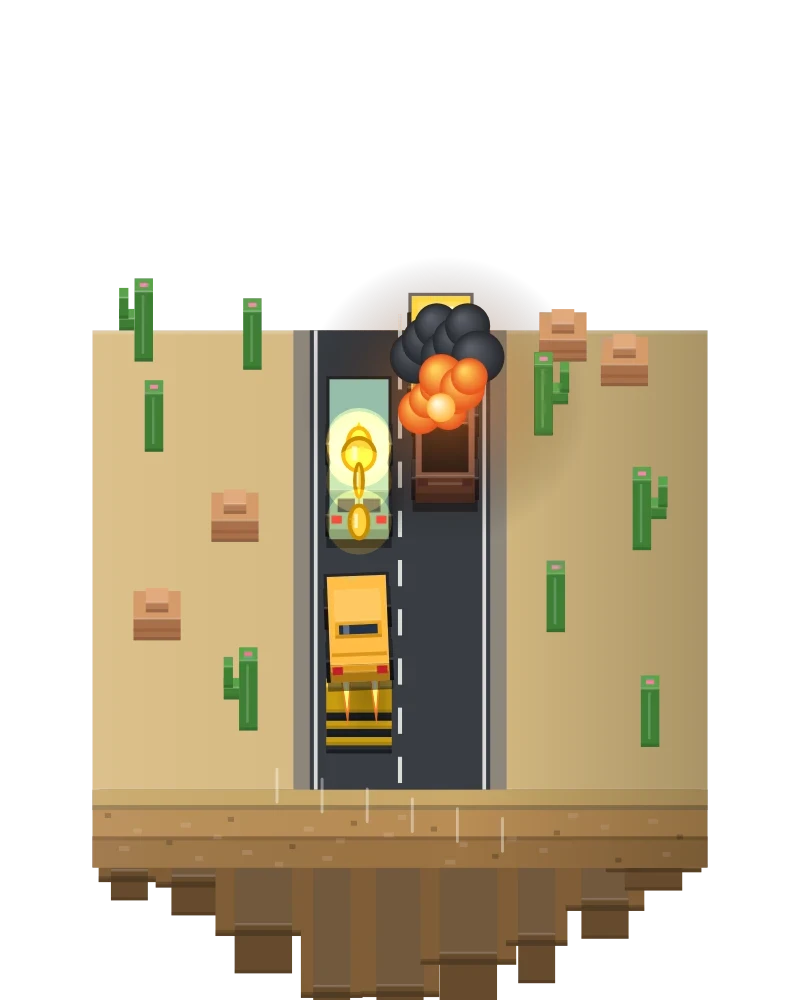
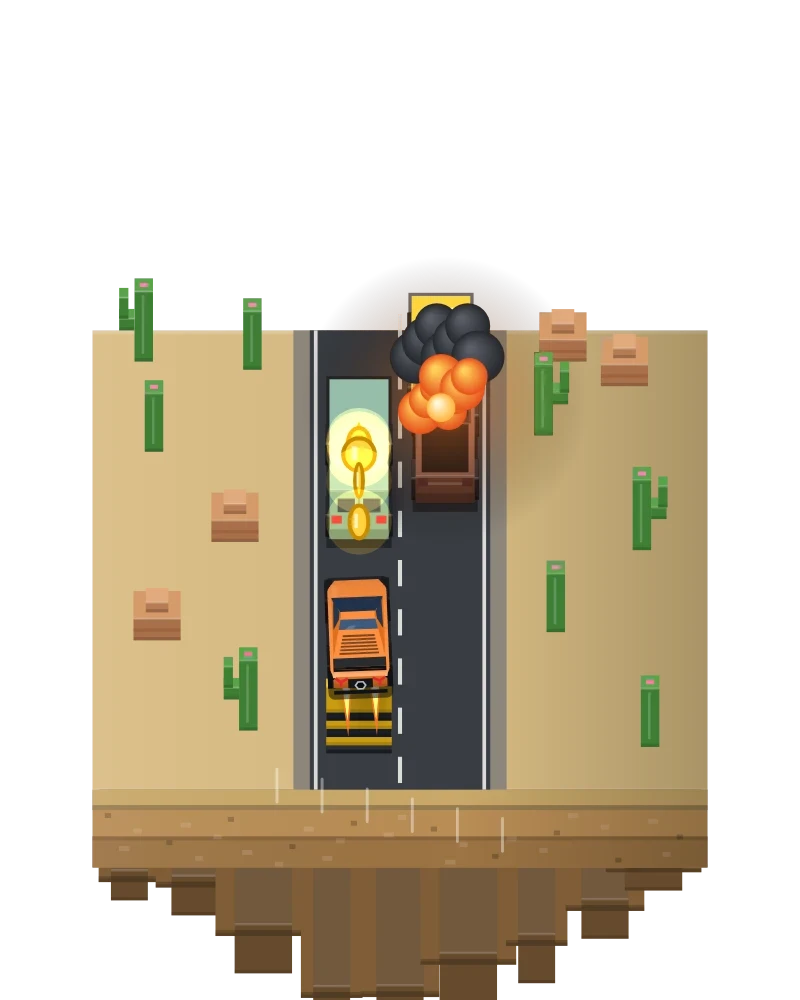
Menu art: redraw the four islands with the current cars
The islands now show the redone roofs and the luxury cars: an Elfer and a
Toro on the Road Rush road, a Rosso F8 and a Gelande at the crossroads, a
Toro V12 boosting off the Boom Run ramp, and an Elfer Classic on a turntable
in the Hall of Art.

Claude-Session: https://claude.ai/code/session_01Hf7xxKrxZ5rt7qyTmTKRRk

Changed region(s): [[0.4062, 0.558, 0.5, 0.713]]

diff --git a/shared/art/dioramas.js b/shared/art/dioramas.js
@@ -70,14 +70,13 @@ window.makeDioramas = function (LAYER) {
       for (let x = x0 + 4; x < x1 - 10; x += 26) c.fillRect(x, P(26.5, 0), 13, 3 * GY);
       c.fillStyle = 'rgba(247,247,242,0.9)'; c.fillRect(x0, P(63, 0), x1 - x0, 1.8 * GY); c.fillRect(x0, P(-13, 0), x1 - x0, 1.8 * GY);
     }
-    const red = car('sedan', '#e63946', 'E'), bus = car('bus', '#ffb703', 'W');
+    const red = car('elfer', '#d1202e', 'W'), bus = car('bus', '#ffb703', 'E'), toro = car('toroV12', '#9bd427', 'W');
     const items = [
       { x: -70, y: 92, draw: () => Draw.tree(c, tree(TOWN_TREE, 15, 3)), shadow: () => Draw.shadow(c, -70, 92, 42, 37, 0.8) },
       { x: 10, y: 88, draw: () => Draw.tree(c, tree(TOWN_TREE, 14, 2)), shadow: () => Draw.shadow(c, 10, 88, 40, 35, 0.8) },
       { x: 95, y: 92, draw: () => Draw.tree(c, tree(TOWN_TREE, 16, 3)), shadow: () => Draw.shadow(c, 95, 92, 44, 38, 0.8) },
       { x: -115, y: 80, draw: () => Draw.bush(c, { pal: { top: '#62b44e', front: '#4b953d', top2: '#77c75f', front2: '#5aa648' }, flower: '#ffe066' }) },
-      { x: -55, y: 46, draw: () => Cars.draw(c, red, 0.3), shadow: () => { c.save(); c.translate(-55, P(46, 0)); Cars.shadow(c, red, 0.9); c.restore(); } },
-      { x: 70, y: 5, draw: () => Cars.draw(c, bus, 0.3), shadow: () => { c.save(); c.translate(70, P(5, 0)); Cars.shadow(c, bus, 0.9); c.restore(); } },
+      ...[[red, -72, 5], [bus, 58, 46], [toro, 52, 5]].map(([v, x, y]) => ({ x, y, draw: () => Cars.draw(c, v, 0.3), shadow: () => { c.save(); c.translate(x, P(y, 0)); Cars.shadow(c, v, 0.9); c.restore(); } })),
       { x: -105, y: -35, draw: () => Draw.lamp(c, { dir: 1 }) },
       { x: 70, y: -38, draw: () => Draw.hydrant(c) },
       ...[-30, -8, 14].map((x, i) => ({ x, y: -36, draw: () => Draw.coin(c, { phase: i * 1.2 }, 0.4) })),
@@ -115,7 +114,7 @@ window.makeDioramas = function (LAYER) {
         if (on) { c.globalCompositeOperation = 'lighter'; glow(c, 0, y, 20, col.replace('#', '') && (s === 'green' ? 'rgba(60,240,120,0.55)' : 'rgba(255,60,60,0.55)')); c.globalCompositeOperation = 'source-over'; }
       });
     };
-    const taxi = car('taxi', null, 'S'), blue = car('sedan', '#3a86ff', 'E'), van = car('van', '#e07a5f', 'N'), amb = car('ambulance', null, 'W');
+    const taxi = car('taxi', null, 'S'), blue = car('rossoF8', '#d40000', 'E'), van = car('gelande', '#b5a37a', 'N'), amb = car('ambulance', null, 'W');
     const cs = (v, x, y) => ({ x, y, draw: () => Cars.draw(c, v, 0.2), shadow: () => { c.save(); c.translate(x, P(y, 0)); Cars.shadow(c, v, 0.9); c.restore(); } });
     const items = [
       { x: -95, y: 85, draw: () => Draw.tree(c, tree(TOWN_TREE, 15, 3)), shadow: () => Draw.shadow(c, -95, 85, 42, 37, 0.8) },
@@ -144,7 +143,7 @@ window.makeDioramas = function (LAYER) {
     // ramp
     for (let i = 0; i < 6; i++) B(c, -36, -4, -118 + i * 5, -113 + i * 5, 0, (i + 1) * 2.2, i % 2 ? '#ffd23f' : '#2b2f36', i % 2 ? '#c99a10' : '#1b1e23');
     }
-    const me = car('sports', '#ffb020', 'N'), van = car('van', '#81b29a', 'N'), taxi = car('taxi', null, 'N'), wreck = car('pickup', '#e76f51', 'N');
+    const me = car('toroV12', '#ff7a1a', 'N'), van = car('van', '#81b29a', 'N'), taxi = car('taxi', null, 'N'), wreck = car('pickup', '#e76f51', 'N');
     Cars.wreck(wreck);
     const cs = (v, x, y) => ({ x, y, draw: () => Cars.draw(c, v, 0.2), shadow: () => { c.save(); c.translate(x, P(y, 0)); Cars.shadow(c, v, 0.9); c.restore(); } });
     const fire = () => { // the wreck going up in flames
@@ -222,7 +221,15 @@ window.makeDioramas = function (LAYER) {
       for (const x of [-60, 60]) { B(c, x - 1.5, x + 1.5, -1.5, 1.5, 0, 26, '#ffd84a', '#c9a020'); c.fillStyle = '#ffd84a'; c.beginPath(); c.arc(x, P(0, 28), 3.2, 0, 6.2832); c.fill(); }
       c.strokeStyle = '#b3122e'; c.lineWidth = 2.6; c.beginPath(); c.moveTo(-60, P(0, 24)); c.quadraticCurveTo(0, P(0, 6), 60, P(0, 24)); c.stroke();
     };
+    const classic = car('elferClassic', '#e3b505', 'E');
+    const turntable = () => {
+      const disc = (z, r, col) => { c.fillStyle = col; c.beginPath(); c.ellipse(0, P(0, z), r, r * GY, 0, 0, 6.2832); c.fill(); };
+      disc(0, 46, '#b9b0cc'); c.fillStyle = '#b9b0cc'; c.fillRect(-46, P(0, 4), 92, 4 * GZ);
+      disc(4, 46, '#f7f4fb'); disc(4, 38, '#ece6f5');
+      c.save(); c.translate(0, P(0, 4)); Cars.shadow(c, classic, 0.5); Cars.draw(c, classic, 0.2); c.restore();
+    };
     const items = [
+      { x: 0, y: -26, draw: turntable, shadow: () => Draw.shadow(c, 0, -26, 100, 80, 0.35) },
       { x: -70, y: 30, draw: pedestal(orb), shadow: () => Draw.shadow(c, -70, 30, 34, 30, 0.6) },
       { x: 70, y: 30, draw: pedestal(cube), shadow: () => Draw.shadow(c, 70, 30, 34, 30, 0.6) },
       { x: 0, y: 46, draw: () => { B(c, -16, 16, -2, 2, 0, 58, '#5b3a9e', '#3b2468'); c.fillStyle = 'rgba(255,255,255,0.85)'; c.font = `900 9px ${UI_FONT}`; c.textAlign = 'center'; c.fillText('HALL', 0, P(-2, 46)); c.fillText('OF ART', 0, P(-2, 34)); } },
